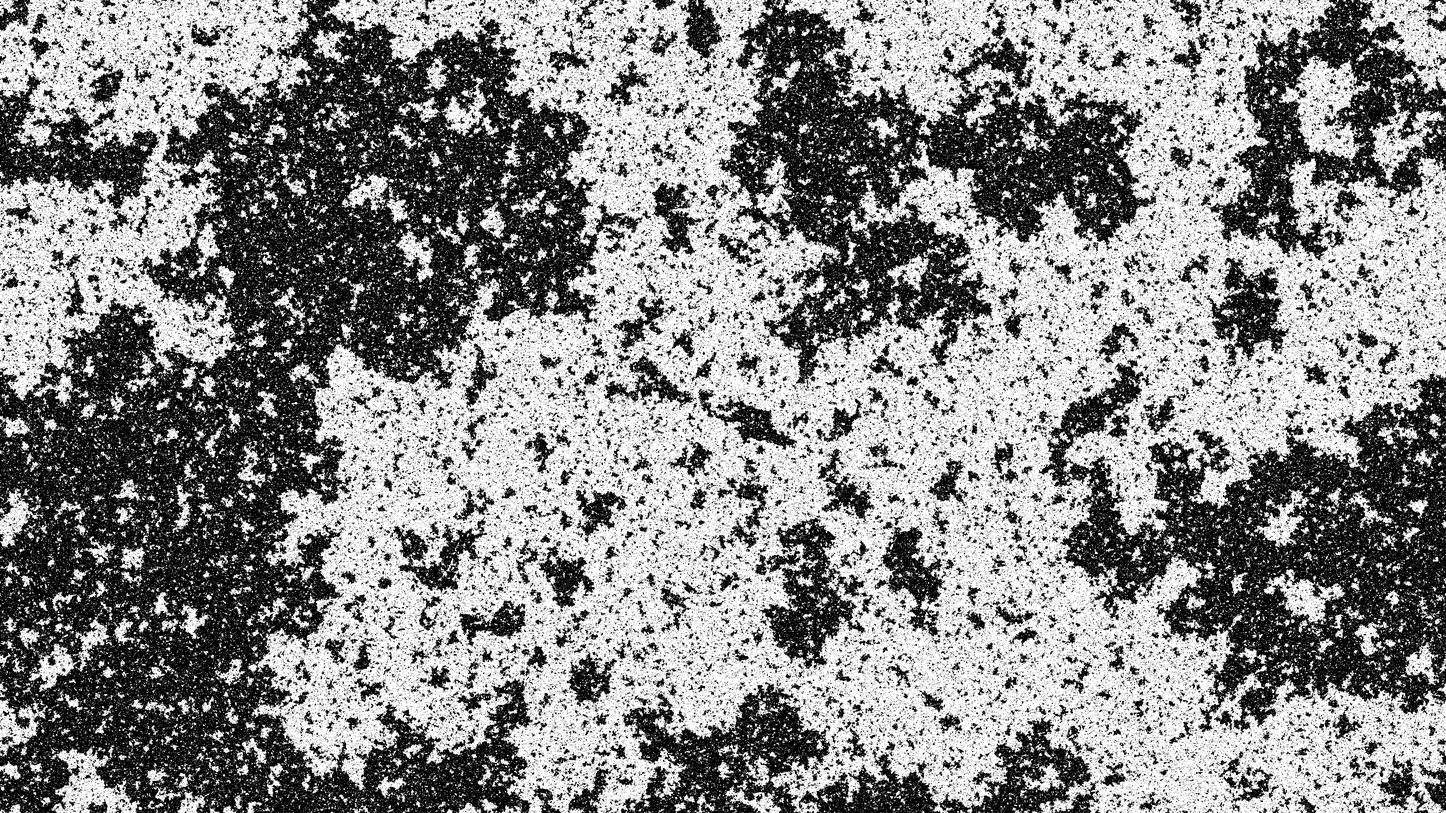
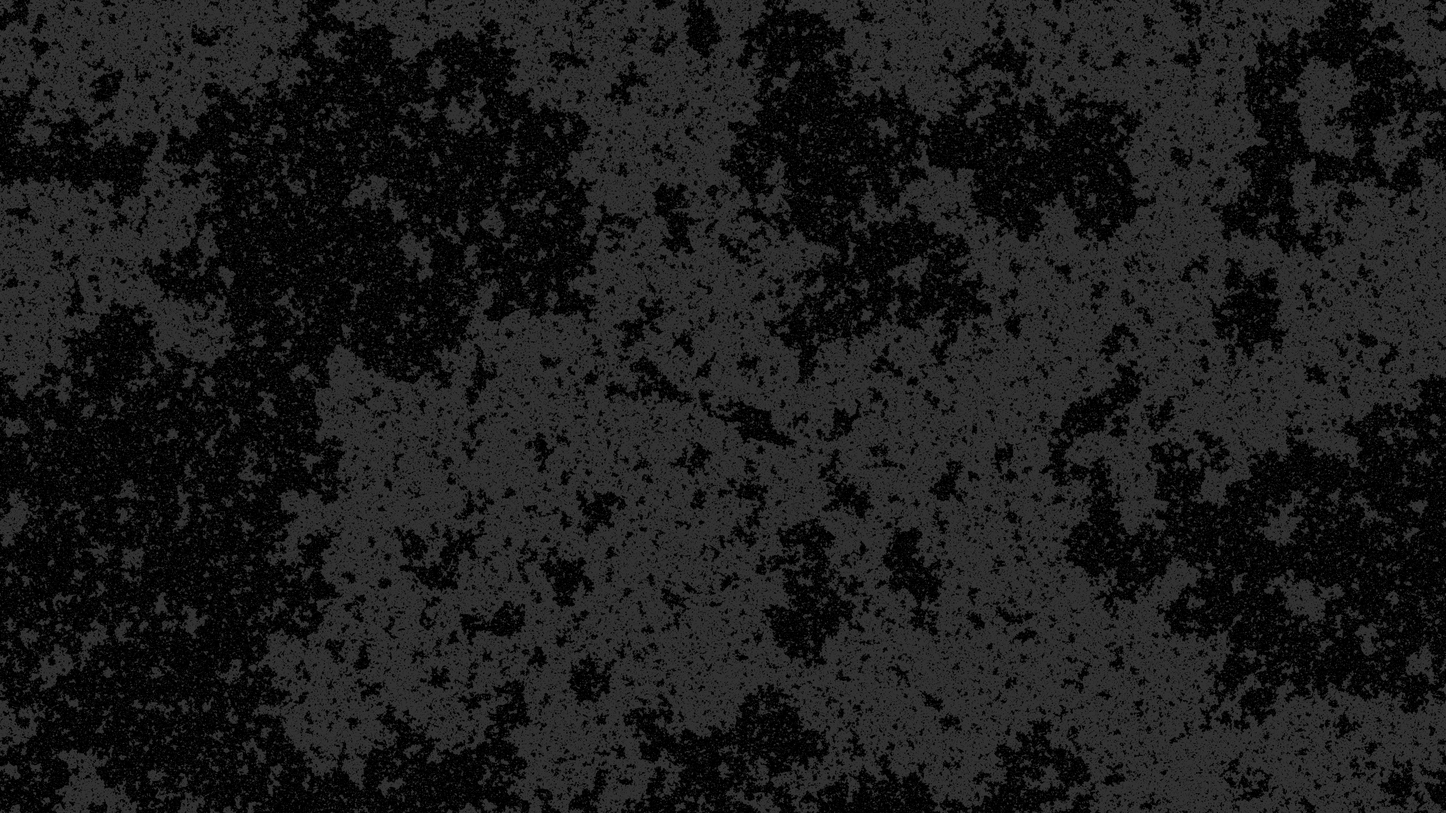
fix background image compatibility

diff --git a/index.html b/index.html
@@ -54,7 +54,6 @@
           box-shadow: inset 0 0 5rem rgba(0, 0, 0, .5);
           background-image: url('background.png');
           background-size: cover;
-          background-blend-mode: multiply;
         }
         
         .cover-container {
